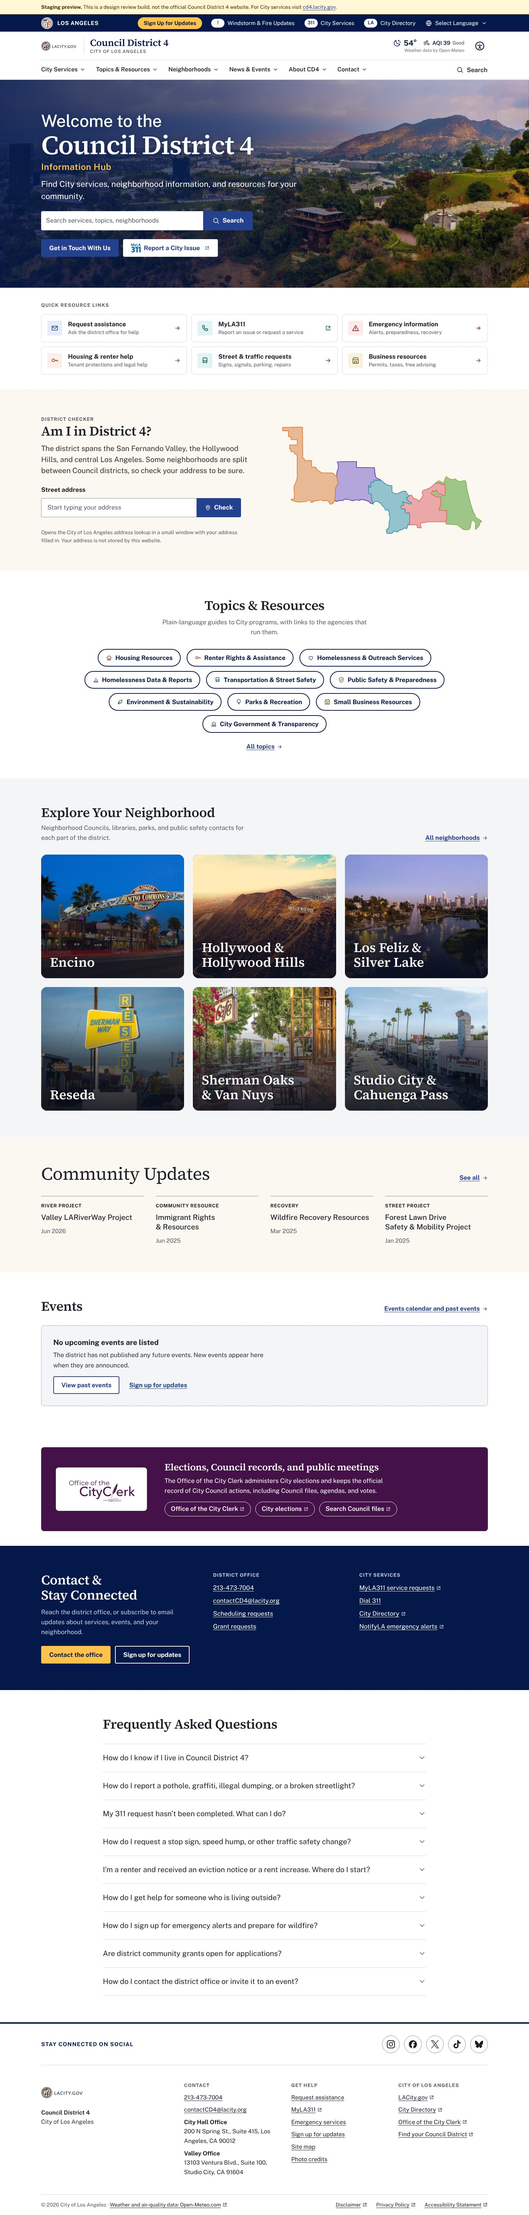
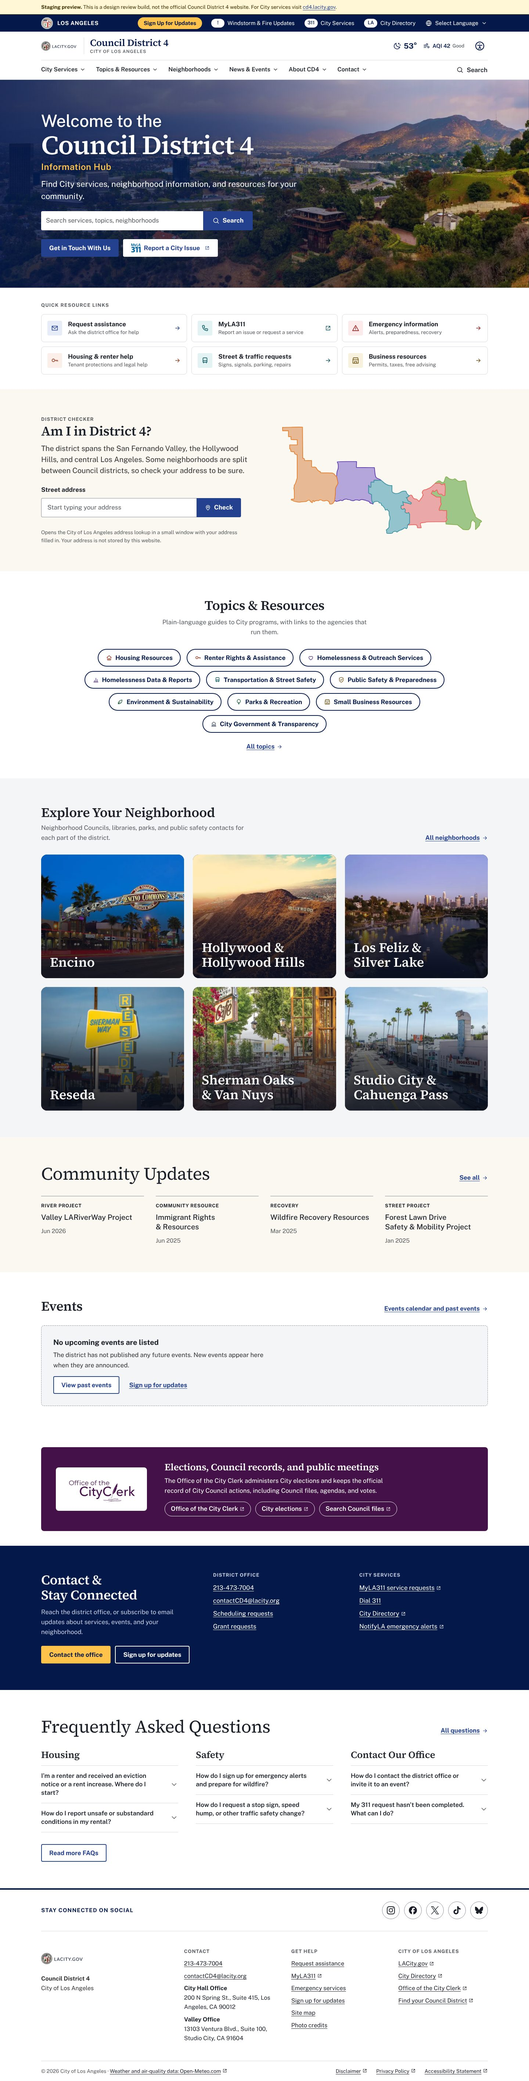
FAQ categories and FAQ page under About; remove header weather credit
Claude-Session: https://claude.ai/code/session_01YU6pJqnMBxtPTujsAPU4kF

diff --git a/content/faqs.ts b/content/faqs.ts
@@ -1,34 +1,68 @@
 import type { ResourceLink } from "./types";
 
-/** Home-page FAQ. Every answer restates something already published on this site and links to that page. */
-export interface Faq { q: string; a: string; links?: ResourceLink[] }
+/**
+ * Frequently asked questions, in three categories. Every answer restates something already
+ * published on this site and links to that page. `featured` questions appear on the home page;
+ * the full list is at /faq/.
+ */
+export interface Faq { q: string; a: string; links?: ResourceLink[]; featured?: boolean }
+export interface FaqCategory { id: string; title: string; items: Faq[] }
 
-export const faqs: Faq[] = [
-  { q: "How do I know if I live in Council District 4?",
-    a: "The district runs from Reseda and Encino in the San Fernando Valley to Los Feliz and Silver Lake. Some neighborhoods, including Reseda, Van Nuys, and Silver Lake, are split between Council districts, so look up your address with the City’s lookup tool to be sure.",
-    links: [{ label: "About the district and its map", href: "/district-4/" }] },
-  { q: "How do I report a pothole, graffiti, illegal dumping, or a broken streetlight?",
-    a: "Use MyLA311, the City’s service-request system. You can submit a request online, in the MyLA311 app, or by dialing 311. Keep the service request number you receive.",
-    links: [{ label: "Open MyLA311", href: "https://myla311.lacity.gov/" }, { label: "City services for residents", href: "/city-service/for-residents/" }] },
-  { q: "My 311 request hasn’t been completed. What can I do?",
-    a: "If a City service request has not been completed in a reasonable time, contact the district office and include your service request number so staff can follow up with the department.",
-    links: [{ label: "Contact the district office", href: "/need-help/" }] },
-  { q: "How do I request a stop sign, speed hump, or other traffic safety change?",
-    a: "The Department of Transportation takes transportation service requests directly through MyLA311. For a blocked driveway or other parking violation, call LADOT dispatch at (818) 374-4823.",
-    links: [{ label: "Street & traffic safety requests", href: "/transit-traffic-safety-requests/" }] },
-  { q: "I’m a renter and received an eviction notice or a rent increase. Where do I start?",
-    a: "Eviction notices have short deadlines, so act quickly. The Renter Rights & Assistance guide explains how to check whether your unit is covered by the Rent Stabilization Ordinance, how to file a complaint with the Los Angeles Housing Department, and where to find free legal help.",
-    links: [{ label: "Renter Rights & Assistance", href: "/initiative/renters-rights/" }] },
-  { q: "How do I get help for someone who is living outside?",
-    a: "For an emergency, call 911. Otherwise, request outreach through the Los Angeles Homeless Outreach Portal (LA-HOP), or dial 211 for shelter and service referrals at any hour.",
-    links: [{ label: "Homelessness & Outreach Services", href: "/initiative/homelessness/" }] },
-  { q: "How do I sign up for emergency alerts and prepare for wildfire?",
-    a: "Register with NotifyLA to receive City emergency alerts for your address, and use the Fire Department’s Ready, Set, Go! guide to make an evacuation plan, especially if you live in a hillside area.",
-    links: [{ label: "Emergency Services", href: "/city-service/emergency-services/" }, { label: "Public Safety & Preparedness", href: "/initiative/public-safety/" }] },
-  { q: "Are district community grants open for applications?",
-    a: "No. The district’s discretionary funding program is on hold until further notice, and applications are not being accepted.",
-    links: [{ label: "Grant requests", href: "/grant-requests/" }] },
-  { q: "How do I contact the district office or invite it to an event?",
-    a: "Use the assistance form, phone, or email on the contact page. To request a meeting or invite the office to an event, use the scheduling request form; event invitations should be sent at least one month ahead.",
-    links: [{ label: "Contact & get help", href: "/need-help/" }, { label: "Scheduling requests", href: "/scheduling-requests/" }] },
+export const faqCategories: FaqCategory[] = [
+  {
+    id: "housing", title: "Housing",
+    items: [
+      { featured: true, q: "I’m a renter and received an eviction notice or a rent increase. Where do I start?",
+        a: "Eviction notices have short deadlines, so act quickly. The Renter Rights & Assistance guide explains how to check whether your unit is covered by the Rent Stabilization Ordinance, how to file a complaint with the Los Angeles Housing Department, and where to find free legal help.",
+        links: [{ label: "Renter Rights & Assistance", href: "/initiative/renters-rights/" }] },
+      { featured: true, q: "How do I report unsafe or substandard conditions in my rental?",
+        a: "File a complaint with the Los Angeles Housing Department, which investigates code violations and habitability problems in rental housing. For other buildings, contact the Department of Building and Safety.",
+        links: [{ label: "Housing Resources", href: "/initiative/housing-renters/" }] },
+      { q: "How do I get help for someone who is living outside?",
+        a: "For an emergency, call 911. Otherwise, request outreach through the Los Angeles Homeless Outreach Portal (LA-HOP), or dial 211 for shelter and service referrals at any hour.",
+        links: [{ label: "Homelessness & Outreach Services", href: "/initiative/homelessness/" }] },
+      { q: "Where can I find affordable or public housing programs?",
+        a: "The Los Angeles Housing Department lists City housing programs, and the Housing Authority of the City of Los Angeles runs public housing and the Section 8 (Housing Choice Voucher) program.",
+        links: [{ label: "Housing Resources", href: "/initiative/housing-renters/" }] },
+    ],
+  },
+  {
+    id: "safety", title: "Safety",
+    items: [
+      { featured: true, q: "How do I sign up for emergency alerts and prepare for wildfire?",
+        a: "Register with NotifyLA to receive City emergency alerts for your address, and use the Fire Department’s Ready, Set, Go! guide to make an evacuation plan, especially if you live in a hillside area.",
+        links: [{ label: "Emergency Services", href: "/city-service/emergency-services/" }, { label: "Public Safety & Preparedness", href: "/initiative/public-safety/" }] },
+      { featured: true, q: "How do I request a stop sign, speed hump, or other traffic safety change?",
+        a: "The Department of Transportation takes transportation service requests directly through MyLA311. For a blocked driveway or other parking violation, call LADOT dispatch at (818) 374-4823.",
+        links: [{ label: "Street & traffic safety requests", href: "/transit-traffic-safety-requests/" }] },
+      { q: "How do I report a pothole, graffiti, illegal dumping, or a broken streetlight?",
+        a: "Use MyLA311, the City’s service-request system. You can submit a request online, in the MyLA311 app, or by dialing 311. Keep the service request number you receive.",
+        links: [{ label: "Open MyLA311", href: "https://myla311.lacity.gov/" }, { label: "City services for residents", href: "/city-service/for-residents/" }] },
+      { q: "What are the brush clearance rules for hillside properties?",
+        a: "The Fire Department sets brush clearance requirements and inspects properties in high fire-hazard areas. Its brush clearance page explains the rules and the inspection process.",
+        links: [{ label: "Public Safety & Preparedness", href: "/initiative/public-safety/" }] },
+    ],
+  },
+  {
+    id: "contact-our-office", title: "Contact Our Office",
+    items: [
+      { featured: true, q: "How do I contact the district office or invite it to an event?",
+        a: "Use the assistance form, phone, or email on the contact page. To request a meeting or invite the office to an event, use the scheduling request form; event invitations should be sent at least one month ahead.",
+        links: [{ label: "Contact & get help", href: "/need-help/" }, { label: "Scheduling requests", href: "/scheduling-requests/" }] },
+      { featured: true, q: "My 311 request hasn’t been completed. What can I do?",
+        a: "If a City service request has not been completed in a reasonable time, contact the district office and include your service request number so staff can follow up with the department.",
+        links: [{ label: "Contact the district office", href: "/need-help/" }] },
+      { q: "How do I know if I live in Council District 4?",
+        a: "The district runs from Reseda and Encino in the San Fernando Valley to Los Feliz and Silver Lake. Some neighborhoods, including Reseda, Van Nuys, and Silver Lake, are split between Council districts, so look up your address with the City’s lookup tool to be sure.",
+        links: [{ label: "About the district and its map", href: "/district-4/" }] },
+      { q: "Are district community grants open for applications?",
+        a: "No. The district’s discretionary funding program is on hold until further notice, and applications are not being accepted.",
+        links: [{ label: "Grant requests", href: "/grant-requests/" }] },
+      { q: "How do I sign up for district email updates?",
+        a: "Use the sign-up form to subscribe to the district newsletter, which covers City services, upcoming events, and neighborhood updates.",
+        links: [{ label: "Sign up for updates", href: "/sign-up/" }] },
+    ],
+  },
 ];
+
+export const faqs: Faq[] = faqCategories.flatMap((c) => c.items);

diff --git a/tests/site.spec.ts b/tests/site.spec.ts
@@ -241,7 +241,8 @@ test.describe("content rules", () => {
     const archive = ["/press-releases/", "/newsletters/", "/news/"];
     for (const route of requiredRoutes.filter((r) => !archive.includes(r) && !r.startsWith("/search"))) {
       await page.goto(route);
-      const text = (await page.locator("body").innerText()).replace(/councilmember-nithyaraman/g, "");
+      // "Contact Our Office" is an approved FAQ category title; other first-person office language is still disallowed.
+      const text = (await page.locator("body").innerText()).replace(/councilmember-nithyaraman/g, "").replace(/Contact Our Office/gi, "");
       expect(text, route).not.toMatch(/\bRaman\b|\bNithya\b|\bmy office\b|\bour office\b|\bI look forward\b/i);
     }
   });
@@ -317,13 +318,22 @@ test.describe("home page sections", () => {
     await expect(page.getByRole("link", { name: /View the district map/ })).toHaveCount(0);
     expect(await page.locator("form.address-check").getAttribute("action")).toBeNull(); // nothing is posted to this site
   });
-  test("FAQ answers open and close", async ({ page }) => {
+  test("FAQ: three categories on the home page, with a button to the full FAQ page in About", async ({ page }) => {
     await page.goto("/");
+    await expect(page.locator(".faq-cats__title")).toHaveText(["Housing", "Safety", "Contact Our Office"]);
     const first = page.locator(".faq__item").first();
     await expect(first.locator(".faq__answer")).toBeHidden();
     await first.locator("summary").click();
     await expect(first.locator(".faq__answer")).toBeVisible();
-    expect(await page.locator(".faq__item").count()).toBeGreaterThanOrEqual(6);
+    const homeCount = await page.locator(".faq__item").count();
+    await page.getByRole("link", { name: "Read more FAQs" }).click();
+    await expect(page).toHaveURL(/\/faq\/$/);
+    await expect(page.locator("main h2").filter({ hasText: /^(Housing|Safety|Contact Our Office)$/ })).toHaveCount(3);
+    expect(await page.locator(".faq__item").count()).toBeGreaterThan(homeCount);
+    await expect(page.locator("#nav-btn-about")).toContainText("current section");
+    await expect(page.getByRole("navigation", { name: "Breadcrumb" })).toContainText("About CD4");
+    await page.locator("#nav-btn-about").click();
+    await expect(page.locator("#nav-panel-about").getByRole("link", { name: "Frequently asked questions" })).toHaveAttribute("href", "/faq/");
   });
   test("footer lists every social network with a named, single-color logo", async ({ page }) => {
     await page.goto("/district-4/");
@@ -356,10 +366,11 @@ test.describe("weather widget", () => {
     await expect(page.locator("a.weather")).toHaveCount(0);
     await expect(w.locator(".weather__credit")).toHaveText("Powered by AccuWeather");
     await expect(w.locator("svg").first()).toHaveAttribute("fill", "none"); // line icon
-    // The credit never claims AccuWeather when another service supplied the reading.
+    // The header never claims AccuWeather when another service supplied the reading.
     await page.route("**/api/weather/", (r) => r.fulfill({ json: { tempF: 60, condition: "Cloudy", kind: "cloud", isDay: true, aqi: null, aqiCategory: null, source: "Open-Meteo" } }));
     await page.reload();
-    await expect(page.locator(".weather__credit")).toHaveText("Weather data by Open-Meteo");
+    await expect(page.locator(".weather__credit")).toHaveCount(0); // Open-Meteo is credited in the footer only
+    await expect(page.locator(".site-footer")).toContainText("Open-Meteo");
   });
   test("renders nothing when the source is unavailable", async ({ page }) => {
     await page.route("**/api/weather/", (r) => r.fulfill({ status: 503, json: { error: "unavailable" } }));

diff --git a/lib/search.ts b/lib/search.ts
@@ -6,7 +6,7 @@
 import { content, formatDate } from "./content-adapter";
 import { site } from "@/content/site";
 import type { ResourceLink } from "@/content/types";
-import { faqs } from "@/content/faqs";
+import { faqs, faqCategories } from "@/content/faqs";
 
 export interface SearchDoc { url: string; title: string; section: string; description: string; body: string; keywords: string }
 export interface SearchHit { url: string; title: string; section: string; snippet: string; score: number }
@@ -21,7 +21,7 @@ export function buildIndex(): SearchDoc[] {
   const add = (d: SearchDoc) => docs.push({ ...d, body: d.body.replace(/\s+/g, " ").trim() });
 
   add({ url: "/", title: "Council District 4", section: "Home", description: site.description, keywords: "home cd4 district 4",
-    body: `${site.description} Get in touch with us. Report a City issue. Quick resource links: request assistance, MyLA311, emergency information, housing and renter help, street and traffic requests, business resources. District checker: am I in District 4? Frequently asked questions. ${faqs.map((f) => `${f.q} ${f.a}`).join(" ")}` });
+    body: `${site.description} Get in touch with us. Report a City issue. Quick resource links: request assistance, MyLA311, emergency information, housing and renter help, street and traffic requests, business resources. District checker: am I in District 4? Frequently asked questions: ${faqs.filter((f) => f.featured).map((f) => f.q).join(" ")}` });
   add({ url: "/city-services/", title: "City Services", section: "City Services", description: "Services for residents and businesses, emergency services, and MyLA311.", keywords: "311 services report request",
     body: `MyLA311 connects you to City services. ${site.myla311.phoneLabel}. ${content.serviceCategories().map((c) => `${c.title}: ${c.summary}`).join(" ")}` });
   add({ url: "/topics-resources/", title: "Topics & Resources", section: "Topics & Resources", description: "Ten resource guides to City programs and the agencies that run them.", keywords: "initiatives topics resources",
@@ -34,6 +34,8 @@ export function buildIndex(): SearchDoc[] {
     body: content.events().map((e) => `${e.title} ${formatDate(e.date)}`).join(". ") });
   add({ url: "/district-4/", title: "About Council District 4", section: "About CD4", description: "Geography of the district and how the district office serves residents.", keywords: "about map boundaries redistricting bridge district",
     body: "Council District 4 extends from the San Fernando Valley across the Santa Monica Mountains to central Los Angeles. Silver Lake, Los Feliz, Hollywood Hills, Studio City, Sherman Oaks, Van Nuys, Encino, Reseda. Hollywood Bowl, Ford Theatre, Griffith Observatory, Hollywood Sign, Ventura Boulevard, Hillhurst Avenue. District boundaries adopted December 2021, effective January 1, 2022. Office of the City Clerk." });
+  add({ url: "/faq/", title: "Frequently asked questions", section: "About CD4", description: "Answers to common questions about housing, safety, and contacting the district office.", keywords: "faq questions answers help",
+    body: faqCategories.map((c) => `${c.title}. ${c.items.map((f) => `${f.q} ${f.a}`).join(" ")}`).join(" ") });
   add({ url: "/press-releases/", title: "Press release archive (2020–2026)", section: "Archive", description: "Historical press releases and statements, with original dates.", keywords: "archive press statements",
     body: content.pressReleases().map((p) => p.title).join(". ") });
   add({ url: "/newsletters/", title: "Newsletter archive (2020–2026)", section: "Archive", description: "Historical district newsletters, with original dates.", keywords: "archive newsletter",

diff --git a/styles/components.css b/styles/components.css
@@ -215,6 +215,14 @@ a.city-bar__link, button.city-bar__link { display: inline-flex; align-items: cen
 .faq__answer { padding: 0 0 var(--s5); max-width: var(--measure); color: var(--ink-2); }
 .faq__answer ul { list-style: none; margin: var(--s3) 0 0; padding: 0; display: flex; flex-wrap: wrap; gap: var(--s2) var(--s5); }
 
+/* FAQ categories (home) and jump links (FAQ page) */
+.faq-cats { display: grid; gap: var(--s6) var(--s7); }
+@media (min-width: 62rem) { .faq-cats { grid-template-columns: repeat(3, minmax(0, 1fr)); } }
+.faq-cats__title { font-family: var(--font-serif); font-size: var(--step-2); font-weight: 600; }
+.faq--compact { margin-top: var(--s3); }
+.faq--compact summary { font-size: var(--step-0); font-weight: 600; padding: var(--s4) 0; }
+.faq-jump ul { display: flex; flex-wrap: wrap; gap: var(--s3); list-style: none; margin: 0; padding: 0; }
+
 /* ---------- Header tools: weather, search ---------- */
 .masthead__tools { display: flex; align-items: center; gap: var(--s3); margin-left: auto; flex-wrap: wrap; justify-content: flex-end; }
 .weather { display: grid; justify-items: end; gap: 1px; padding: 0 var(--s2); color: var(--city-navy); font-weight: 600; line-height: 1.2; }
@@ -229,6 +237,7 @@ a.city-bar__link, button.city-bar__link { display: inline-flex; align-items: cen
   .masthead__tools { flex: 1 0 100%; justify-content: flex-end; margin-left: 0; gap: var(--s2); }
   .weather { margin-right: auto; justify-items: start; padding: 0; }
   .weather__credit { white-space: normal; max-width: 6rem; line-height: 1.25; }
+  .weather { align-self: center; }
   .menu-toggle { padding: 0 var(--s3); } }
 @media (max-width: 26rem) { .weather__item + .weather__item { display: none; } }
 

diff --git a/app/faq/page.tsx b/app/faq/page.tsx
@@ -1,0 +1,34 @@
+import { faqCategories } from "@/content/faqs";
+import { pageMeta } from "@/lib/metadata";
+import { PageHeader, PageFoot, ContactActions } from "@/components/Layout";
+import { FaqList } from "@/components/Faq";
+import { SmartLink } from "@/components/SmartLink";
+
+export const metadata = pageMeta({ title: "Frequently asked questions", description: "Answers to common questions about housing, safety, and contacting the Council District 4 office.", route: "/faq/" });
+
+export default function FaqPage() {
+  return (
+    <>
+      <PageHeader title="Frequently asked questions" lede="Short answers to common questions, with links to the page that has the details." crumbs={[{ label: "About CD4", href: "/district-4/" }, { label: "FAQ" }]} />
+      <div className="container section">
+        <div className="split">
+          <div>
+            <nav aria-label="FAQ categories" className="faq-jump">
+              <ul role="list">
+                {faqCategories.map((c) => <li key={c.id}><SmartLink className="pill" href={`#${c.id}`}>{c.title}</SmartLink></li>)}
+              </ul>
+            </nav>
+            {faqCategories.map((c) => (
+              <section key={c.id} id={c.id} aria-labelledby={`${c.id}-h`} style={{ marginTop: "var(--s7)", scrollMarginTop: "1rem" }}>
+                <h2 id={`${c.id}-h`} style={{ fontSize: "var(--step-2)" }}>{c.title}</h2>
+                <FaqList items={c.items} />
+              </section>
+            ))}
+          </div>
+          <div><ContactActions heading="Didn’t find your answer?" /></div>
+        </div>
+        <PageFoot title="Frequently asked questions" />
+      </div>
+    </>
+  );
+}

diff --git a/app/page.tsx b/app/page.tsx
@@ -1,7 +1,7 @@
 import Image from "next/image";
 import { content, splitEvents, todayLA } from "@/lib/content-adapter";
 import { site } from "@/content/site";
-import { faqs } from "@/content/faqs";
+import { faqCategories } from "@/content/faqs";
 import { heroPhoto } from "@/content/images";
 import { primaryNav } from "@/content/navigation";
 import { SiteSearch } from "@/components/SiteSearch";
@@ -166,9 +166,22 @@ export default function HomePage() {
       </section>
 
       <section className="section" aria-labelledby="faq-title">
-        <div className="container faq-wrap">
-          <h2 id="faq-title">Frequently Asked Questions</h2>
-          <FaqList items={faqs} />
+        <div className="container">
+          <div className="latest-head">
+            <h2 id="faq-title">Frequently Asked Questions</h2>
+            <SmartLink className="arrow-link" href="/faq/">All questions <Icon name="arrow" size={16} /></SmartLink>
+          </div>
+          <div className="faq-cats">
+            {faqCategories.map((cat) => (
+              <section key={cat.id} aria-labelledby={`faq-${cat.id}`}>
+                <h3 id={`faq-${cat.id}`} className="faq-cats__title">{cat.title}</h3>
+                <FaqList items={cat.items.filter((f) => f.featured)} compact />
+              </section>
+            ))}
+          </div>
+          <div className="btn-row" style={{ marginTop: "var(--s6)" }}>
+            <ButtonLink href="/faq/" variant="secondary">Read more FAQs</ButtonLink>
+          </div>
         </div>
       </section>
     </>

diff --git a/tests/routes.ts b/tests/routes.ts
@@ -6,12 +6,12 @@ export const requiredRoutes = [
   "/city-service/for-residents/", "/city-service/for-businesses/", "/city-service/emergency-services/",
   "/sign-up/", "/grant-requests/", "/transit-traffic-safety-requests/", "/scheduling-requests/",
   "/immigrant-rights-resources/", "/wildfire-recovery-resources/", "/hollywood-hills-tourism/", "/forest-lawn-dr-safety-mobility-project/", "/valley-lariverway-project/",
-  "/press-releases/", "/newsletters/", "/search/", "/site-map/", "/photo-credits/", "/event/clockshop-night-hike/",
+  "/press-releases/", "/newsletters/", "/search/", "/site-map/", "/photo-credits/", "/faq/", "/event/clockshop-night-hike/",
 ];
 
 /** One page per template, for accessibility and layout checks. */
 export const templates = [
   "/", "/city-services/", "/city-service/emergency-services/", "/topics-resources/", "/initiative/renters-rights/", "/neighborhoods/",
   "/neighborhood/studio-city-cahuenga-pass/", "/news/", "/events/", "/event/clockshop-night-hike/", "/press-releases/", "/district-4/",
-  "/need-help/", "/grant-requests/", "/transit-traffic-safety-requests/", "/wildfire-recovery-resources/", "/search/?q=parking", "/search/?q=zzzzqqq", "/site-map/", "/this-page-does-not-exist/",
+  "/need-help/", "/grant-requests/", "/transit-traffic-safety-requests/", "/wildfire-recovery-resources/", "/search/?q=parking", "/search/?q=zzzzqqq", "/site-map/", "/faq/", "/this-page-does-not-exist/",
 ];

diff --git a/components/SiteHeader.tsx b/components/SiteHeader.tsx
@@ -14,7 +14,7 @@ const sectionFor = (path: string): string | null => {
   if (/^\/(city-services|city-service)\//.test(path)) return "services";
   if (/^\/(topics-resources|initiative)\//.test(path)) return "topics";
   if (/^\/(neighborhoods|neighborhood)\//.test(path)) return "neighborhoods";
-  if (/^\/(district-4)\//.test(path)) return "about";
+  if (/^\/(district-4|faq)\//.test(path)) return "about";
   if (/^\/(need-help|sign-up|grant-requests|scheduling-requests|transit-traffic-safety-requests)\//.test(path)) return "contact";
   if (/^\/(news|events|event|press-releases|newsletters|immigrant-rights-resources|wildfire-recovery-resources|hollywood-hills-tourism|forest-lawn-dr-safety-mobility-project|valley-lariverway-project)\//.test(path)) return "news";
   return null;

diff --git a/content/site.ts b/content/site.ts
@@ -82,7 +82,8 @@ export const site = {
     longitude: -118.501,
     /** From accuweather.com/en/us/encino/91316/…/327083 */
     accuWeatherLocationKey: "327083",
-    credits: { AccuWeather: "Powered by AccuWeather", "Open-Meteo": "Weather data by Open-Meteo" } as Record<string, string>,
+    /** Credit shown under the header readout, by data source. Open-Meteo is credited in the footer only. */
+    credits: { AccuWeather: "Powered by AccuWeather" } as Record<string, string>,
     attribution: { label: "Weather and air-quality data: Open-Meteo.com", href: "https://open-meteo.com/" },
   },
 

diff --git a/components/Faq.tsx b/components/Faq.tsx
@@ -3,9 +3,9 @@ import { Icon } from "./Icon";
 import { SmartLink } from "./SmartLink";
 
 /** FAQ accordion built on native <details>, so it works without JavaScript and with every input method. */
-export function FaqList({ items }: { items: Faq[] }) {
+export function FaqList({ items, compact }: { items: Faq[]; compact?: boolean }) {
   return (
-    <div className="faq">
+    <div className={`faq${compact ? " faq--compact" : ""}`}>
       {items.map((f) => (
         <details key={f.q} className="faq__item">
           <summary><span>{f.q}</span><Icon name="chevron" size={22} /></summary>

diff --git a/content/navigation.ts b/content/navigation.ts
@@ -79,6 +79,7 @@ id: "neighborhoods", label: "Neighborhoods", href: "/neighborhoods/", overview: 
       { links: [
         { label: "District geography & map", href: "/district-4/#map" },
         { label: "How the district office helps", href: "/district-4/#how-the-office-helps" },
+        { label: "Frequently asked questions", href: "/faq/" },
         { label: "Find your Council District", href: "https://neighborhoodinfo.lacity.gov/" },
         { label: "Office of the City Clerk", href: "https://clerk.lacity.gov/" },
       ] },

diff --git a/components/WeatherWidget.tsx b/components/WeatherWidget.tsx
@@ -58,7 +58,8 @@ export function WeatherWidget() {
           </span>
         )}
       </p>
-      <p className="weather__credit">{site.weather.credits[r.source] ?? ""}</p>
+      {/* Only a required brand credit is shown here; the Open-Meteo attribution is in the footer. */}
+      {site.weather.credits[r.source] && <p className="weather__credit">{site.weather.credits[r.source]}</p>}
     </div>
   );
 }
